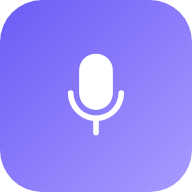
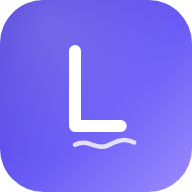
이름을 LUNE 으로: 새 로고(L 하나 + 손글씨 필기선)·글자 로고·대표 이미지
- 앱 이름 LUNE, 웹 제목 'LUNE | AI Lecture Notes', 문구 Listen. Learn. Remember.
- 로고: 짙은 보라→라벤더 그라데이션 위 얇은 L 과 손글씨 필기선 (벡터, 화면에서 필기선이 그려지는 모션)
- 글자 로고: Outfit 글꼴을 벡터로 바꿔 넣음 (따로 글꼴을 받지 않음)
- 홈 머리·로그인·소개 화면·앱 아이콘(적응형 벡터)·웹 아이콘을 새 로고로
- brand/: 스토어 대표 이미지(1024×500), 세로 표지(1080×1920), 아이콘, 글자 로고
- 서버 켜기 문구·초대 코드 예시도 LUNE 으로

Claude-Session: https://claude.ai/code/session_01GyA8n7PjtVdEKth8SmnTwJ

diff --git a/web/src/components/Brand.tsx b/web/src/components/Brand.tsx
@@ -1,0 +1,37 @@
+// LUNE 브랜드: 로고(보라 그라데이션 위 L 하나 + 손글씨 필기선)와 글자 로고(Outfit 글꼴을 벡터로 바꾼 것).
+// Listen. Learn. Remember.  — 앱 아이콘(android/res/drawable/ic_launcher_*.xml, web/public/icon-*.png)과 같은 모양
+import { useId } from "react";
+
+export const TAGLINE = "Listen. Learn. Remember.";
+export const MARK_L = "M200 136 V336 H322";
+export const MARK_PEN = "M200 386 C 236 368, 258 404, 292 386 S 340 372, 358 380";
+
+/** 로고 (네모 아이콘) */
+export function LuneMark({ size = 40, className = "" }: { size?: number; className?: string }) {
+  const id = useId().replace(/:/g, "");
+  return (
+    <svg className={`lune-mark ${className}`} width={size} height={size} viewBox="0 0 512 512" aria-hidden="true">
+      <defs>
+        <linearGradient id={`bg${id}`} x1="0" y1="0" x2="1" y2="1">
+          <stop offset="0" stopColor="#4A3AD9" /><stop offset=".55" stopColor="#6B5CF6" /><stop offset="1" stopColor="#9C8CFF" />
+        </linearGradient>
+        <radialGradient id={`gl${id}`} cx=".25" cy=".12" r=".7">
+          <stop offset="0" stopColor="#fff" stopOpacity=".18" /><stop offset="1" stopColor="#fff" stopOpacity="0" />
+        </radialGradient>
+      </defs>
+      <rect width="512" height="512" rx="116" fill={`url(#bg${id})`} />
+      <rect width="512" height="512" rx="116" fill={`url(#gl${id})`} />
+      <path className="lune-l" d={MARK_L} fill="none" stroke="#fff" strokeWidth="32" strokeLinecap="round" strokeLinejoin="round" />
+      <path className="lune-pen" d={MARK_PEN} fill="none" stroke="#fff" strokeOpacity=".8" strokeWidth="12" strokeLinecap="round" />
+    </svg>
+  );
+}
+
+/** 글자 로고 'LUNE' (글자색 = currentColor) */
+export function LuneWordmark({ height = 22, className = "" }: { height?: number; className?: string }) {
+  return (
+    <svg className={`lune-word ${className}`} height={height} viewBox="0 -703 2941 703" fill="currentColor" role="img" aria-label="LUNE">
+      <path d="M72 0V-703H208V0ZM172 0V-121H530V0Z M1025 10Q942 10 877.5 -26.5Q813 -63 776 -127.0Q739 -191 739 -272V-703H875.0V-268Q875 -221 894.5 -187.0Q914 -153 948.5 -134.5Q983 -116 1025 -116Q1068 -116 1101 -134.5Q1134 -153 1153.5 -187.0Q1173 -221 1173 -267V-703H1310.0V-271Q1310 -190 1273 -126.5Q1236 -63 1172.5 -26.5Q1109 10 1025 10Z M1564 0V-703H1659.0L1700 -567V0ZM2050 0 1633 -540 1659 -703 2076 -163ZM2050 0 2011 -132V-703H2148.0V0Z M2411 0V-703H2547.0V0ZM2511 0V-120H2900.0V0ZM2511 -301V-417H2865.0V-301ZM2511 -583V-703H2895.0V-583Z" />
+    </svg>
+  );
+}

diff --git a/web/src/screens/Intro.tsx b/web/src/screens/Intro.tsx
@@ -1,5 +1,5 @@
 // 소개 화면 (처음 한 번): 스크롤에 맞춰 장면이 이어지는 영화 같은 소개.
-// 화면은 고정돼 있고(sticky), 스크롤한 만큼(0~1)이 --p 로 들어가 쫑긋·글자·아이콘이 그 값에 맞춰 움직인다.
+// 화면은 고정돼 있고(sticky), 스크롤한 만큼(0~1)이 --p 로 들어가 로고·글자·아이콘이 그 값에 맞춰 움직인다.
 // 손가락·마우스 위치는 --mx/--my 로 들어가 깊이감(겹겹이 다르게 움직임)을 만든다.
 import { useEffect, useRef, useState } from "react";
 import { Button, Icon } from "../components/ui";
@@ -48,7 +48,7 @@ export default function Intro() {
     <div className="intro" ref={root} style={{ height: `${SCENES * 100}dvh` }}>
       <div className={`intro-stage scene-${scene}`}>
         <div className="intro-sky" aria-hidden="true" />
-        <div className="intro-word" aria-hidden="true">쫑긋</div>
+        <div className="intro-word" aria-hidden="true">LUNE</div>
         <div className="intro-floaters" aria-hidden="true">
           {FLOATERS.map((name, i) => <span key={name} className={`floater f${i}`}><Icon name={name} art size={64} /></span>)}
         </div>
@@ -61,7 +61,7 @@ export default function Intro() {
         <div className="intro-mascot"><span className="intro-hero" key={hero}><Icon name={hero} art size={200} /></span></div>
         {scene === 4 && <Confetti count={44} />}
 
-        <div className="intro-copy c0"><p className="intro-kicker">수업을 대신 들어 주는 강의노트</p><h1>귀를 쫑긋.</h1></div>
+        <div className="intro-copy c0"><p className="intro-kicker">수업을 대신 들어 주는 AI 강의 노트</p><h1>Listen.<br />Learn.<br />Remember.</h1></div>
         <div className="intro-copy c1"><h2>녹음만 켜세요.<br />나머지는 알아서.</h2><p>교수님 말이 실시간으로 글이 되고, 강의자료의 그 문단 옆에 필기로 붙어요.</p></div>
         <div className="intro-copy c2"><h2>“시험에 나와요”<br />놓치지 않아요.</h2><p>시험·과제·공지 얘기가 나오면 바로 표시해 둬요.</p></div>
         <div className="intro-copy c3"><h2>수업이 끝나면<br />공부가 준비돼 있어요.</h2><p>요약 · 플래시카드 · 족보 노트 · 오늘의 복습까지 준비돼요.</p></div>

diff --git a/web/src/screens/Login.tsx b/web/src/screens/Login.tsx
@@ -4,6 +4,7 @@ import { useState } from "react";
 import { postJSON } from "../api/useApi";
 import { Button } from "../components/ui";
 import SlidingTabs from "../components/SlidingTabs";
+import { LuneMark, LuneWordmark, TAGLINE } from "../components/Brand";
 
 export interface Me { auth: boolean; user: { id: string; name: string } | null }
 
@@ -24,11 +25,10 @@ export default function Login({ onDone }: { onDone: (me: Me) => void }) {
   const ready = name.trim() && password.length >= (mode === "signup" ? 6 : 1) && (mode === "login" || invite.trim());
   return (
     <div className="login">
-      <div className="login-mark" aria-hidden="true">
-        <svg viewBox="0 0 256 256"><use href={`${import.meta.env.BASE_URL}icons.svg#microphone`} /></svg>
-      </div>
-      <h1>쫑긋 강의노트</h1>
-      <p className="t-caption muted">녹음하면 강의자료 위에 필기가 붙어요</p>
+      <LuneMark size={84} className="login-mark" />
+      <h1 aria-label="LUNE"><LuneWordmark height={30} /></h1>
+      <p className="login-tag">{TAGLINE}</p>
+      <p className="t-caption muted">녹음하면 강의자료 위에 AI 필기가 붙어요</p>
       <form className="login-card" onSubmit={(e) => { e.preventDefault(); if (ready && !busy) void submit(); }}>
         <SlidingTabs label="로그인 방법" value={mode} onChange={(m) => { setMode(m); setError(null); }}
           items={[["login", "로그인"], ["signup", "처음이에요"]] as const} />

diff --git a/web/src/styles/app.css b/web/src/styles/app.css
@@ -1056,3 +1056,15 @@ body:has(.tabbar) .screen { padding-bottom: calc(72px + env(safe-area-inset-bott
 @keyframes login-pop { from { transform: scale(.4) rotate(-12deg); opacity: 0; } }
 .retry-row { align-items: flex-start; gap: 10px; }
 .retry-why { display: block; margin-top: 4px; color: var(--accent-record); font-size: 12px; line-height: 17px; word-break: break-all; }
+
+/* LUNE 브랜드 (components/Brand.tsx) */
+.home-brand { gap: 10px; color: var(--text-primary); }
+.home-brand .lune-mark { border-radius: 9px; box-shadow: 0 4px 12px rgb(74 58 217 / .25); }
+.lune-word { display: block; width: auto; }
+.lune-mark .lune-pen { stroke-dasharray: 200; animation: lune-pen 1.1s .25s cubic-bezier(.4,0,.2,1) both; }
+@keyframes lune-pen { from { stroke-dashoffset: 200; } to { stroke-dashoffset: 0; } }
+.login .login-mark { width: 84px; height: 84px; background: none; border-radius: 22px; box-shadow: 0 16px 34px rgb(74 58 217 / .35); animation: login-pop .7s cubic-bezier(.3,1.5,.5,1) both; }
+.login h1 { color: var(--text-primary); margin-top: 16px; }
+.login-tag { margin: 2px 0 0; font: 600 14px/20px var(--font-sans); letter-spacing: .08em; color: var(--accent-primary); }
+.intro-word { letter-spacing: .12em; }
+@media (prefers-reduced-motion: reduce) { .lune-mark .lune-pen { animation: none; } }

diff --git a/web/src/screens/Home.tsx b/web/src/screens/Home.tsx
@@ -13,6 +13,7 @@ import { courseTone } from "../lib/course";
 import { useWaves, Wave } from "../lib/wave";
 import { go } from "../router";
 import { play } from "../lib/sound";
+import { LuneMark, LuneWordmark } from "../components/Brand";
 
 
 export function subtitleOf(doc: DocumentBrief): string {
@@ -142,7 +143,7 @@ export default function Home() {
     <div className="screen">
       <header className="home-head">
         <div className="row">
-          <span className="home-brand grow"><Icon name="book-open-text" art size={28} /> 강의노트</span>
+          <span className="home-brand grow"><LuneMark size={30} /><LuneWordmark height={19} /></span>
           <button className="top-bar-back" onClick={() => go({ name: "search" })} aria-label="모든 강의에서 찾기"><Icon name="magnifying-glass" /></button>
           <button className="top-bar-back" onClick={() => go({ name: "privacy" })} aria-label="설정"><Icon name="gear" /></button>
         </div>

diff --git a/web/index.html b/web/index.html
@@ -9,7 +9,7 @@
     <link rel="icon" type="image/png" href="./favicon.png" />
     <link rel="apple-touch-icon" href="./icon-192.png" />
     <link rel="manifest" href="./manifest.webmanifest" />
-    <title>쫑긋 강의노트</title>
+    <title>LUNE | AI Lecture Notes</title>
   </head>
   <body>
     <div id="root"></div>

diff --git a/deploy/run.py b/deploy/run.py
@@ -1,4 +1,4 @@
-"""내 컴퓨터를 강의노트 서버로: 서버를 켜고, 무료 터널(Cloudflare)로 인터넷 주소를 만들어 준다.
+"""내 컴퓨터를 LUNE 서버로: 서버를 켜고, 무료 터널(Cloudflare)로 인터넷 주소를 만들어 준다.
 
   python deploy/run.py            서버 + 인터넷 주소 (친구들·발표용)
   python deploy/run.py --local    이 컴퓨터·같은 와이파이에서만 (터널 없이)
@@ -96,7 +96,7 @@ def load_env() -> dict:
         env["GROQ_API_KEY"] = ask_groq_key()
         changed = True
     if not env.get("INVITE_CODE"):
-        suggestion = "쫑긋-" + secrets.token_hex(2)
+        suggestion = "lune-" + secrets.token_hex(2)
         say(f"\n[처음 한 번] 친구들이 가입할 때 넣을 초대 코드를 정해 주세요. 그냥 Enter 면 '{suggestion}'")
         env["INVITE_CODE"] = input("초대 코드: ").strip() or suggestion
         changed = True
@@ -322,7 +322,7 @@ def main() -> None:
         import signal
         signal.signal(signal.SIGTERM, lambda *_: (_ for _ in ()).throw(KeyboardInterrupt()))
     local_only = "--local" in sys.argv
-    say("=" * 56 + "\n 쫑긋 강의노트 서버\n" + "=" * 56)
+    say("=" * 56 + "\n LUNE 서버 · Listen. Learn. Remember.\n" + "=" * 56)
     need("ffmpeg", "설치 스크립트(start-windows.bat / start-mac.command)를 쓰면 함께 설치돼요.")
     env = load_env()
     py = venv_python()
